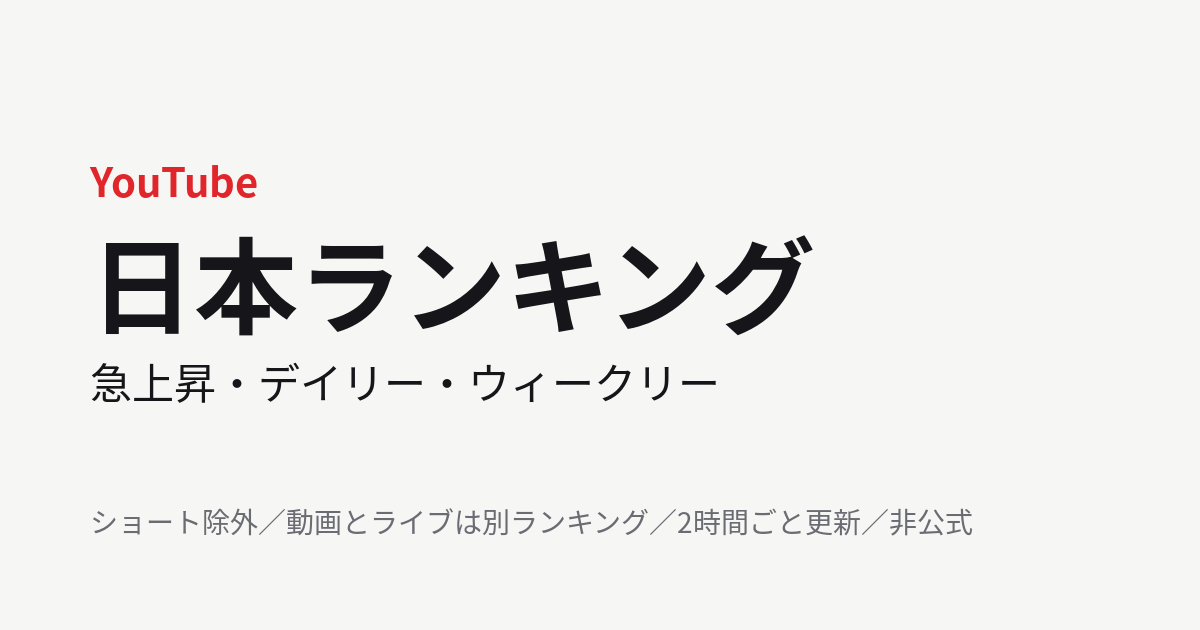
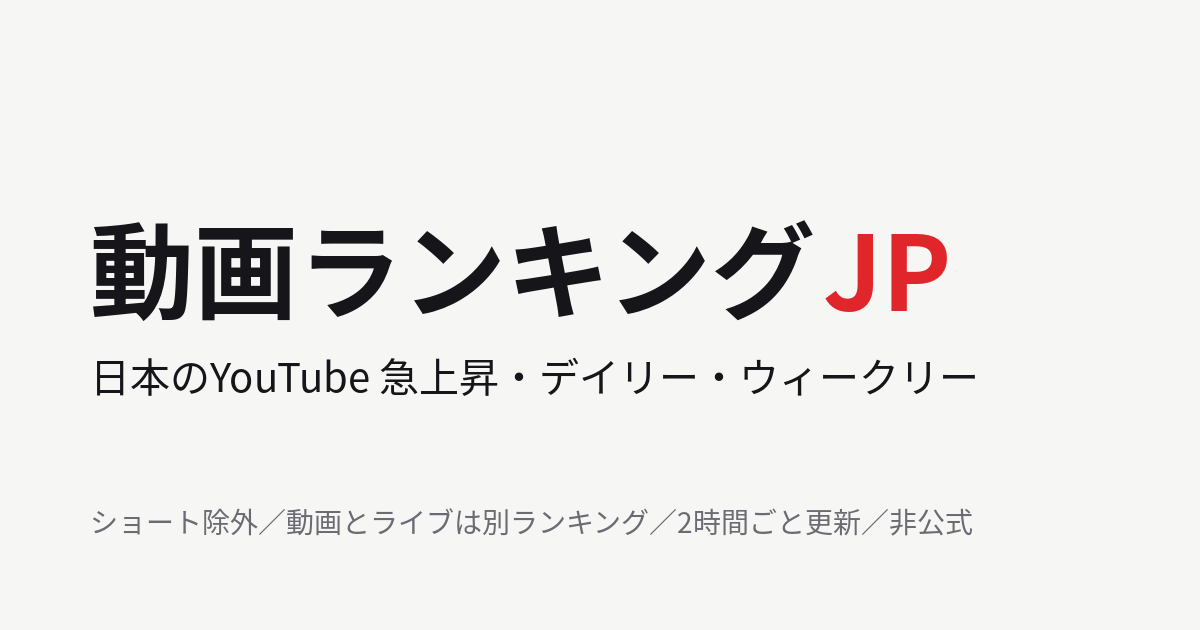
Rename site to Video Ranking JP, add privacy policy and terms

Changed region(s): [[0.0617, 0.2413, 0.8017, 0.5429], [0.0617, 0.573, 0.5858, 0.6333], [0.6167, 0.573, 0.8017, 0.6333]]

diff --git a/site/privacy.html b/site/privacy.html
@@ -1,0 +1,77 @@
+<!doctype html>
+<html lang="ja">
+<head>
+<meta charset="utf-8">
+<meta name="viewport" content="width=device-width, initial-scale=1">
+<title>プライバシーポリシー｜動画ランキングJP</title>
+<style>
+:root{--bg:#f6f6f4;--ink:#16161a;--sub:#6b6b73;--line:#e4e4e0;--accent:#e0262b}
+@media (prefers-color-scheme:dark){:root{--bg:#111113;--ink:#f1f1f3;--sub:#9a9aa3;--line:#2a2a30;--accent:#ff4d52}}
+body{margin:0;background:var(--bg);color:var(--ink);line-height:1.8;
+  font-family:-apple-system,BlinkMacSystemFont,"Hiragino Sans","Noto Sans JP","Yu Gothic UI",sans-serif}
+main{max-width:760px;margin:0 auto;padding:24px 16px 60px}
+h1{font-size:22px;margin:8px 0 4px}h2{font-size:17px;margin:28px 0 6px}
+p,li{font-size:15px}.sub{color:var(--sub);font-size:13px}
+a{color:var(--accent)}hr{border:0;border-top:1px solid var(--line);margin:40px 0}
+</style>
+</head>
+<body>
+<main>
+<p><a href="./">← 動画ランキングJP に戻る</a></p>
+<h1>プライバシーポリシー</h1>
+<p class="sub">最終更新日：2026年10月24日</p>
+
+<p>動画ランキングJP（以下「当サイト」）は、YouTube の動画を再生数の伸びで並べる非公式のランキングサイトです。当サイトでの情報の取り扱いは次のとおりです。</p>
+
+<h2>1. YouTube API Services の利用</h2>
+<p>当サイトは YouTube API Services を使って、公開されている動画の情報（タイトル、チャンネル名、再生数、配信状況など）を取得しています。当サイトを利用すると、<a href="https://www.youtube.com/t/terms" target="_blank" rel="noopener">YouTube 利用規約</a>に同意したものとみなされます。YouTube（Google）による情報の取り扱いは <a href="https://policies.google.com/privacy" target="_blank" rel="noopener">Google プライバシーポリシー</a>をご覧ください。</p>
+
+<h2>2. 当サイトが集める情報</h2>
+<ul>
+<li>当サイトには会員登録やログインはなく、名前・メールアドレスなどの個人情報を集めることはありません。</li>
+<li>YouTube のアカウントへのアクセス（OAuth）は使っておらず、利用者の YouTube アカウントの情報は取得しません。</li>
+<li>表示の設定（動画/ライブ、タブ、再生方法）は、利用者のブラウザ内（localStorage）にだけ保存されます。当サイトのサーバーには送られません。</li>
+</ul>
+
+<h2>3. アクセス解析</h2>
+<p>アクセス数を把握するため、<a href="https://www.goatcounter.com/" target="_blank" rel="noopener">GoatCounter</a> を使っています。GoatCounter は Cookie を使わず、個人を特定できる情報を保存しません。記録するのは、閲覧されたページ、参照元、ブラウザの種類、画面サイズ、国などの集計情報です。詳しくは <a href="https://www.goatcounter.com/help/privacy" target="_blank" rel="noopener">GoatCounter のプライバシーポリシー</a>をご覧ください。</p>
+
+<h2>4. 動画の再生（埋め込みプレーヤー）</h2>
+<p>「サイト内で見る」を選ぶと、YouTube の埋め込みプレーヤー（youtube-nocookie.com）で動画を再生します。プレーヤーは YouTube が提供するもので、再生時の情報は YouTube（Google）に送られ、<a href="https://policies.google.com/privacy" target="_blank" rel="noopener">Google プライバシーポリシー</a>に沿って扱われます。「YouTube」を選ぶと、動画は YouTube のサイトまたはアプリで開きます。</p>
+
+<h2>5. YouTube から取得したデータの保存</h2>
+<p>当サイトが保存するのは、公開動画の情報と再生数の記録だけです。再生数の記録は最長8日で古いものから削除し、ランキングに使わなくなった動画の情報も削除します。利用者個人に関するデータは保存しません。</p>
+
+<h2>6. 第三者への提供</h2>
+<p>当サイトは利用者の情報を第三者に販売・提供しません。</p>
+
+<h2>7. お問い合わせ</h2>
+<p>このポリシーに関するお問い合わせは、<a href="https://github.com/tunakan12/yt-jp-ranking/issues" target="_blank" rel="noopener">GitHub の Issues</a> からお願いします。</p>
+
+<h2>8. 改定</h2>
+<p>内容を変更する場合は、このページで最終更新日とともにお知らせします。</p>
+
+<hr>
+
+<h1 lang="en">Privacy Policy</h1>
+<div lang="en">
+<p class="sub">Last updated: October 24, 2026</p>
+<p>Video Ranking JP ("the Site") is an unofficial ranking of YouTube videos in Japan, ordered by view growth.</p>
+<h2>1. Use of YouTube API Services</h2>
+<p>The Site uses YouTube API Services to retrieve public video information (titles, channel names, view counts, live status). By using the Site, you agree to be bound by the <a href="https://www.youtube.com/t/terms" target="_blank" rel="noopener">YouTube Terms of Service</a>. See the <a href="https://policies.google.com/privacy" target="_blank" rel="noopener">Google Privacy Policy</a> for how Google handles data.</p>
+<h2>2. Information we collect</h2>
+<p>The Site has no accounts or sign-in and does not collect names, email addresses or other personal information. It does not use OAuth and does not access users' YouTube accounts. Display settings are stored only in your browser (localStorage) and are not sent to us.</p>
+<h2>3. Analytics</h2>
+<p>We use <a href="https://www.goatcounter.com/" target="_blank" rel="noopener">GoatCounter</a>, a cookieless analytics service that does not store personally identifiable information. It records aggregate data such as pages viewed, referrer, browser type, screen size and country.</p>
+<h2>4. Embedded player</h2>
+<p>When "play on site" is selected, videos play in YouTube's embedded player (youtube-nocookie.com). Data sent to YouTube during playback is handled under the Google Privacy Policy.</p>
+<h2>5. Storage of YouTube API data</h2>
+<p>We store only public video information and view-count history. View-count history is deleted after at most 8 days, and data for videos no longer ranked is deleted. No data about individual users is stored.</p>
+<h2>6. Sharing</h2>
+<p>We do not sell or share user information with third parties.</p>
+<h2>7. Contact</h2>
+<p>Please contact us via <a href="https://github.com/tunakan12/yt-jp-ranking/issues" target="_blank" rel="noopener">GitHub Issues</a>.</p>
+</div>
+</main>
+</body>
+</html>

diff --git a/site/terms.html b/site/terms.html
@@ -1,0 +1,57 @@
+<!doctype html>
+<html lang="ja">
+<head>
+<meta charset="utf-8">
+<meta name="viewport" content="width=device-width, initial-scale=1">
+<title>利用規約｜動画ランキングJP</title>
+<style>
+:root{--bg:#f6f6f4;--ink:#16161a;--sub:#6b6b73;--line:#e4e4e0;--accent:#e0262b}
+@media (prefers-color-scheme:dark){:root{--bg:#111113;--ink:#f1f1f3;--sub:#9a9aa3;--line:#2a2a30;--accent:#ff4d52}}
+body{margin:0;background:var(--bg);color:var(--ink);line-height:1.8;
+  font-family:-apple-system,BlinkMacSystemFont,"Hiragino Sans","Noto Sans JP","Yu Gothic UI",sans-serif}
+main{max-width:760px;margin:0 auto;padding:24px 16px 60px}
+h1{font-size:22px;margin:8px 0 4px}h2{font-size:17px;margin:28px 0 6px}
+p,li{font-size:15px}.sub{color:var(--sub);font-size:13px}
+a{color:var(--accent)}hr{border:0;border-top:1px solid var(--line);margin:40px 0}
+</style>
+</head>
+<body>
+<main>
+<p><a href="./">← 動画ランキングJP に戻る</a></p>
+<h1>利用規約</h1>
+<p class="sub">最終更新日：2026年10月24日</p>
+
+<h2>1. このサイトについて</h2>
+<p>動画ランキングJP（以下「当サイト」）は、YouTube の公開動画を再生数の伸びで並べる、個人運営の非公式ランキングです。YouTube および Google とは関係がなく、公認を受けたものではありません。</p>
+
+<h2>2. YouTube 利用規約への同意</h2>
+<p>当サイトは YouTube API Services を利用しています。当サイトを利用することで、<a href="https://www.youtube.com/t/terms" target="_blank" rel="noopener">YouTube 利用規約</a>に同意したものとみなされます。YouTube（Google）による情報の取り扱いは <a href="https://policies.google.com/privacy" target="_blank" rel="noopener">Google プライバシーポリシー</a>に従います。</p>
+
+<h2>3. 表示内容</h2>
+<ul>
+<li>再生数の増加量や急上昇の順位は当サイト独自の計算によるもので、YouTube 公式の数値ではありません。</li>
+<li>ランキングは2時間ごとに更新されます。集計を始めて間もない動画などでは推定値を含みます。</li>
+<li>動画の内容や権利は各投稿者に帰属します。当サイトは動画を保存・配布していません。</li>
+</ul>
+
+<h2>4. 免責</h2>
+<p>当サイトの情報の正確さや、サービスが継続して提供されることは保証しません。当サイトの利用によって生じた損害について、運営者は責任を負いません。</p>
+
+<h2>5. 変更</h2>
+<p>この規約やサービスの内容は予告なく変更・終了する場合があります。</p>
+
+<h2>6. お問い合わせ</h2>
+<p><a href="https://github.com/tunakan12/yt-jp-ranking/issues" target="_blank" rel="noopener">GitHub の Issues</a> からお願いします。プライバシーについては<a href="privacy.html">プライバシーポリシー</a>をご覧ください。</p>
+
+<hr>
+
+<h1 lang="en">Terms of Service</h1>
+<div lang="en">
+<p class="sub">Last updated: October 24, 2026</p>
+<p>Video Ranking JP ("the Site") is an unofficial, individually run ranking of public YouTube videos by view growth. It is not affiliated with or endorsed by YouTube or Google.</p>
+<p><strong>By using the Site, you agree to be bound by the <a href="https://www.youtube.com/t/terms" target="_blank" rel="noopener">YouTube Terms of Service</a>.</strong> The Site uses YouTube API Services; see the <a href="https://policies.google.com/privacy" target="_blank" rel="noopener">Google Privacy Policy</a>.</p>
+<p>View-growth figures and trending ranks are calculated by the Site and are not official YouTube metrics. Videos and their rights belong to their creators; the Site does not store or distribute video content. The Site is provided as is, without warranty, and may change or end without notice. Contact: <a href="https://github.com/tunakan12/yt-jp-ranking/issues" target="_blank" rel="noopener">GitHub Issues</a>. See also our <a href="privacy.html">Privacy Policy</a>.</p>
+</div>
+</main>
+</body>
+</html>

diff --git a/site/index.html b/site/index.html
@@ -3,18 +3,18 @@
 <head>
 <meta charset="utf-8">
 <meta name="viewport" content="width=device-width, initial-scale=1">
-<title>YouTube 日本ランキング</title>
+<title>動画ランキングJP</title>
 <meta name="description" content="日本で人気のYouTube動画（ショート除く）とライブ配信の急上昇・デイリー・ウィークリーランキング">
 <meta property="og:type" content="website">
-<meta property="og:site_name" content="YouTube 日本ランキング">
-<meta property="og:title" content="YouTube 日本ランキング（非公式）">
+<meta property="og:site_name" content="動画ランキングJP">
+<meta property="og:title" content="動画ランキングJP｜日本のYouTube急上昇・人気ランキング（非公式）">
 <meta property="og:description" content="ショート除外。動画とライブを分けて、急上昇・デイリー・ウィークリーを2時間ごとに更新。完全無料。">
 <meta property="og:url" content="https://tunakan12.github.io/yt-jp-ranking/">
 <meta property="og:image" content="https://tunakan12.github.io/yt-jp-ranking/ogp.png">
 <meta property="og:image:width" content="1200">
 <meta property="og:image:height" content="630">
 <meta name="twitter:card" content="summary_large_image">
-<meta name="twitter:title" content="YouTube 日本ランキング（非公式）">
+<meta name="twitter:title" content="動画ランキングJP｜日本のYouTube急上昇・人気ランキング（非公式）">
 <meta name="twitter:description" content="ショート除外。動画とライブを分けて、急上昇・デイリー・ウィークリーを2時間ごとに更新。完全無料。">
 <meta name="twitter:image" content="https://tunakan12.github.io/yt-jp-ranking/ogp.png">
 <script data-goatcounter="https://yuya.goatcounter.com/count" async src="//gc.zgo.at/count.js"></script>
@@ -105,7 +105,7 @@ dialog#player::backdrop{background:rgba(0,0,0,.75)}
 <header>
   <div class="wrap">
     <div class="top">
-      <h1><b>▶</b> YouTube 日本ランキング</h1>
+      <h1>動画ランキング<b>JP</b></h1>
       <div class="seg" id="kind">
         <button data-kind="video" aria-pressed="true">動画</button>
         <button data-kind="live" aria-pressed="false">ライブ</button>
@@ -135,7 +135,9 @@ dialog#player::backdrop{background:rgba(0,0,0,.75)}
 </dialog>
 <footer>
   動画はショートを除外。ライブは配信アーカイブと配信中の枠を集計しています。<br>
-  YouTube Data API のデータを2時間ごとに集計した独自ランキングで、YouTube公式のものではありません。<br>
+  動画情報と再生数は YouTube Data API（YouTube API Services）から取得しています。再生数の増加量・急上昇の順位は当サイト独自の集計で、YouTube公式のものではありません。<br>
+  <a href="terms.html">利用規約</a> ・
+  <a href="privacy.html">プライバシーポリシー</a> ・
   <a href="https://www.youtube.com/t/terms" target="_blank" rel="noopener">YouTube 利用規約</a> ・
   <a href="https://policies.google.com/privacy" target="_blank" rel="noopener">Google プライバシーポリシー</a>
 </footer>
